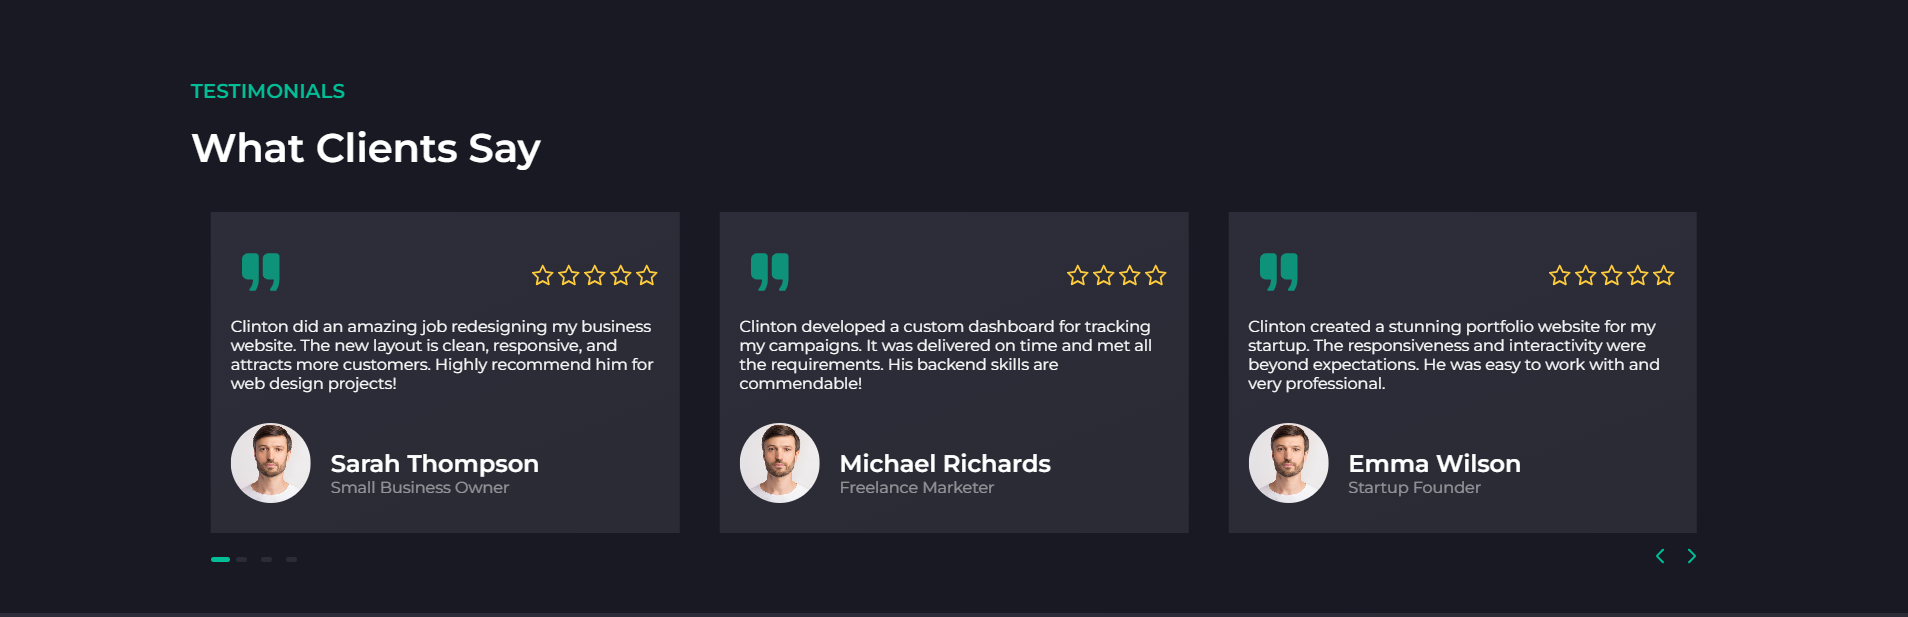
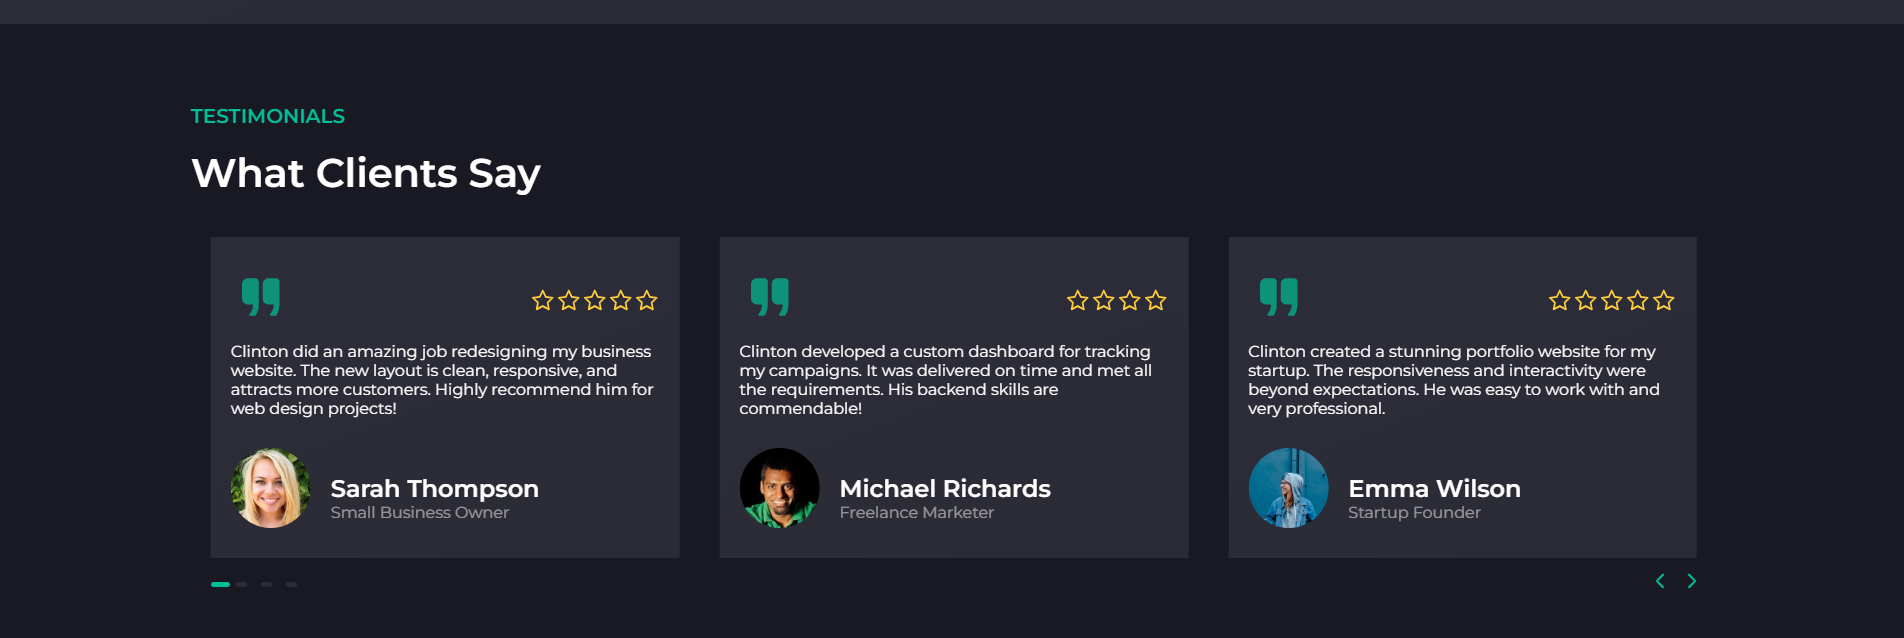
unique user images

diff --git a/src/components/Clients/Clients.jsx b/src/components/Clients/Clients.jsx
@@ -9,16 +9,14 @@ let clients = [
   {
     name: 'Sarah Thompson',
     position: 'Small Business Owner',
-    img_url:
-      'https://t4.ftcdn.net/jpg/02/90/27/39/360_F_290273933_ukYZjDv8nqgpOBcBUo5CQyFcxAzYlZRW.jpg',
+    img_url: 'https://randomuser.me/api/portraits/women/68.jpg',
     stars: 5,
     disc: `Clinton did an amazing job redesigning my business website. The new layout is clean, responsive, and attracts more customers. Highly recommend him for web design projects!`,
   },
   {
     name: 'Michael Richards',
     position: 'Freelance Marketer',
-    img_url:
-      'https://t4.ftcdn.net/jpg/02/90/27/39/360_F_290273933_ukYZjDv8nqgpOBcBUo5CQyFcxAzYlZRW.jpg',
+    img_url: 'https://randomuser.me/api/portraits/men/50.jpg',
     stars: 4,
     disc: `Clinton developed a custom dashboard for tracking my campaigns. It was delivered on time and met all the requirements. His backend skills are commendable!`,
   },
@@ -26,7 +24,7 @@ let clients = [
     name: 'Emma Wilson',
     position: 'Startup Founder',
     img_url:
-      'https://t4.ftcdn.net/jpg/02/90/27/39/360_F_290273933_ukYZjDv8nqgpOBcBUo5CQyFcxAzYlZRW.jpg',
+      'https://images.unsplash.com/photo-1517841905240-472988babdf9?crop=faces&fit=crop&w=200&h=200',
     stars: 5,
     disc: `Clinton created a stunning portfolio website for my startup. The responsiveness and interactivity were beyond expectations. He was easy to work with and very professional.`,
   },
@@ -34,7 +32,7 @@ let clients = [
     name: 'David Lee',
     position: 'Project Manager',
     img_url:
-      'https://t4.ftcdn.net/jpg/02/90/27/39/360_F_290273933_ukYZjDv8nqgpOBcBUo5CQyFcxAzYlZRW.jpg',
+      'https://images.unsplash.com/photo-1527980965255-d3b416303d12?crop=faces&fit=crop&w=200&h=200',
     stars: 5,
     disc: `I worked with Clinton on a complex project that required integrating multiple APIs. His ability to problem-solve and deliver high-quality code made the project a success.`,
   },

diff --git a/build/index.html b/build/index.html
@@ -1,1 +1,1 @@
-<!doctype html><html lang="en"><head><meta charset="utf-8"/><meta name="viewport" content="width=device-width,initial-scale=1"/><meta name="theme-color" content="#000000"/><meta name="description" content="This is a website showcasing my skillset"/><link rel="apple-touch-icon" href="/my-portfolio/clinton.jpg"/><link rel="stylesheet" charset="UTF-8" href="https://cdnjs.cloudflare.com/ajax/libs/slick-carousel/1.6.0/slick.min.css"/><link rel="stylesheet" href="https://cdnjs.cloudflare.com/ajax/libs/slick-carousel/1.6.0/slick-theme.min.css"/><title>Clinton Fezeu | Portfolio</title><script defer="defer" src="/my-portfolio/static/js/main.df40f057.js"></script><link href="/my-portfolio/static/css/main.e69d1175.css" rel="stylesheet"></head><body><noscript>You need to enable JavaScript to run this app.</noscript><div id="root"></div></body></html>
+<!doctype html><html lang="en"><head><meta charset="utf-8"/><meta name="viewport" content="width=device-width,initial-scale=1"/><meta name="theme-color" content="#000000"/><meta name="description" content="This is a website showcasing my skillset"/><link rel="apple-touch-icon" href="/my-portfolio/clinton.jpg"/><link rel="stylesheet" charset="UTF-8" href="https://cdnjs.cloudflare.com/ajax/libs/slick-carousel/1.6.0/slick.min.css"/><link rel="stylesheet" href="https://cdnjs.cloudflare.com/ajax/libs/slick-carousel/1.6.0/slick-theme.min.css"/><title>Clinton Fezeu | Portfolio</title><script defer="defer" src="/my-portfolio/static/js/main.4c771167.js"></script><link href="/my-portfolio/static/css/main.e69d1175.css" rel="stylesheet"></head><body><noscript>You need to enable JavaScript to run this app.</noscript><div id="root"></div></body></html>
